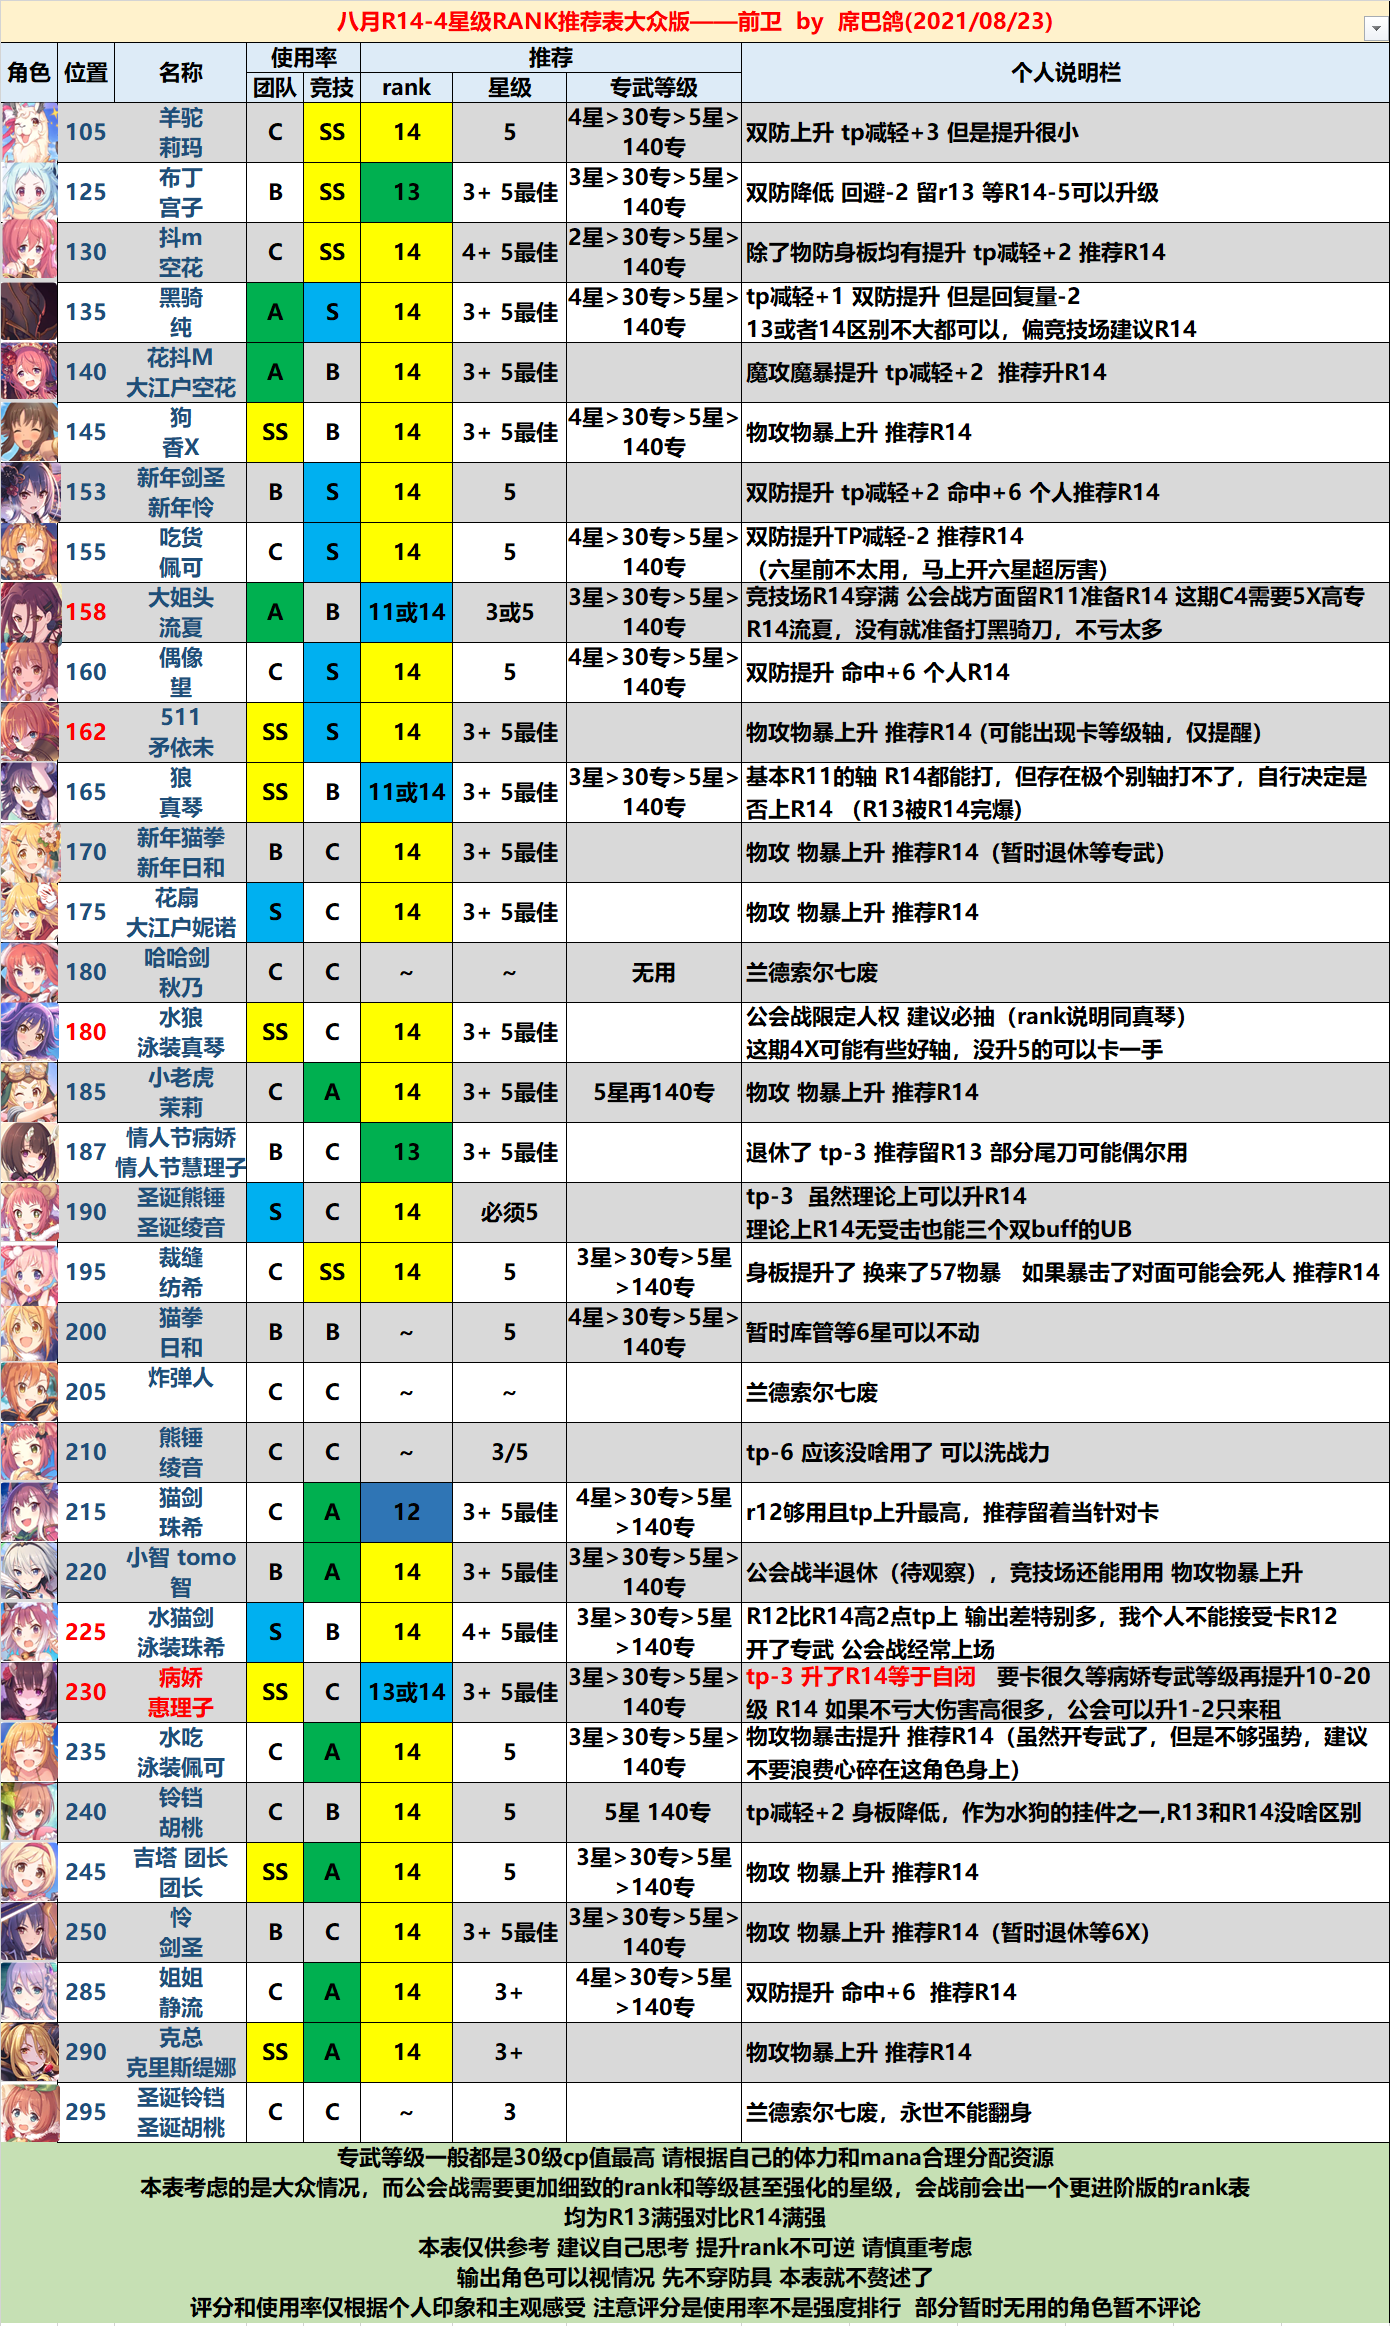
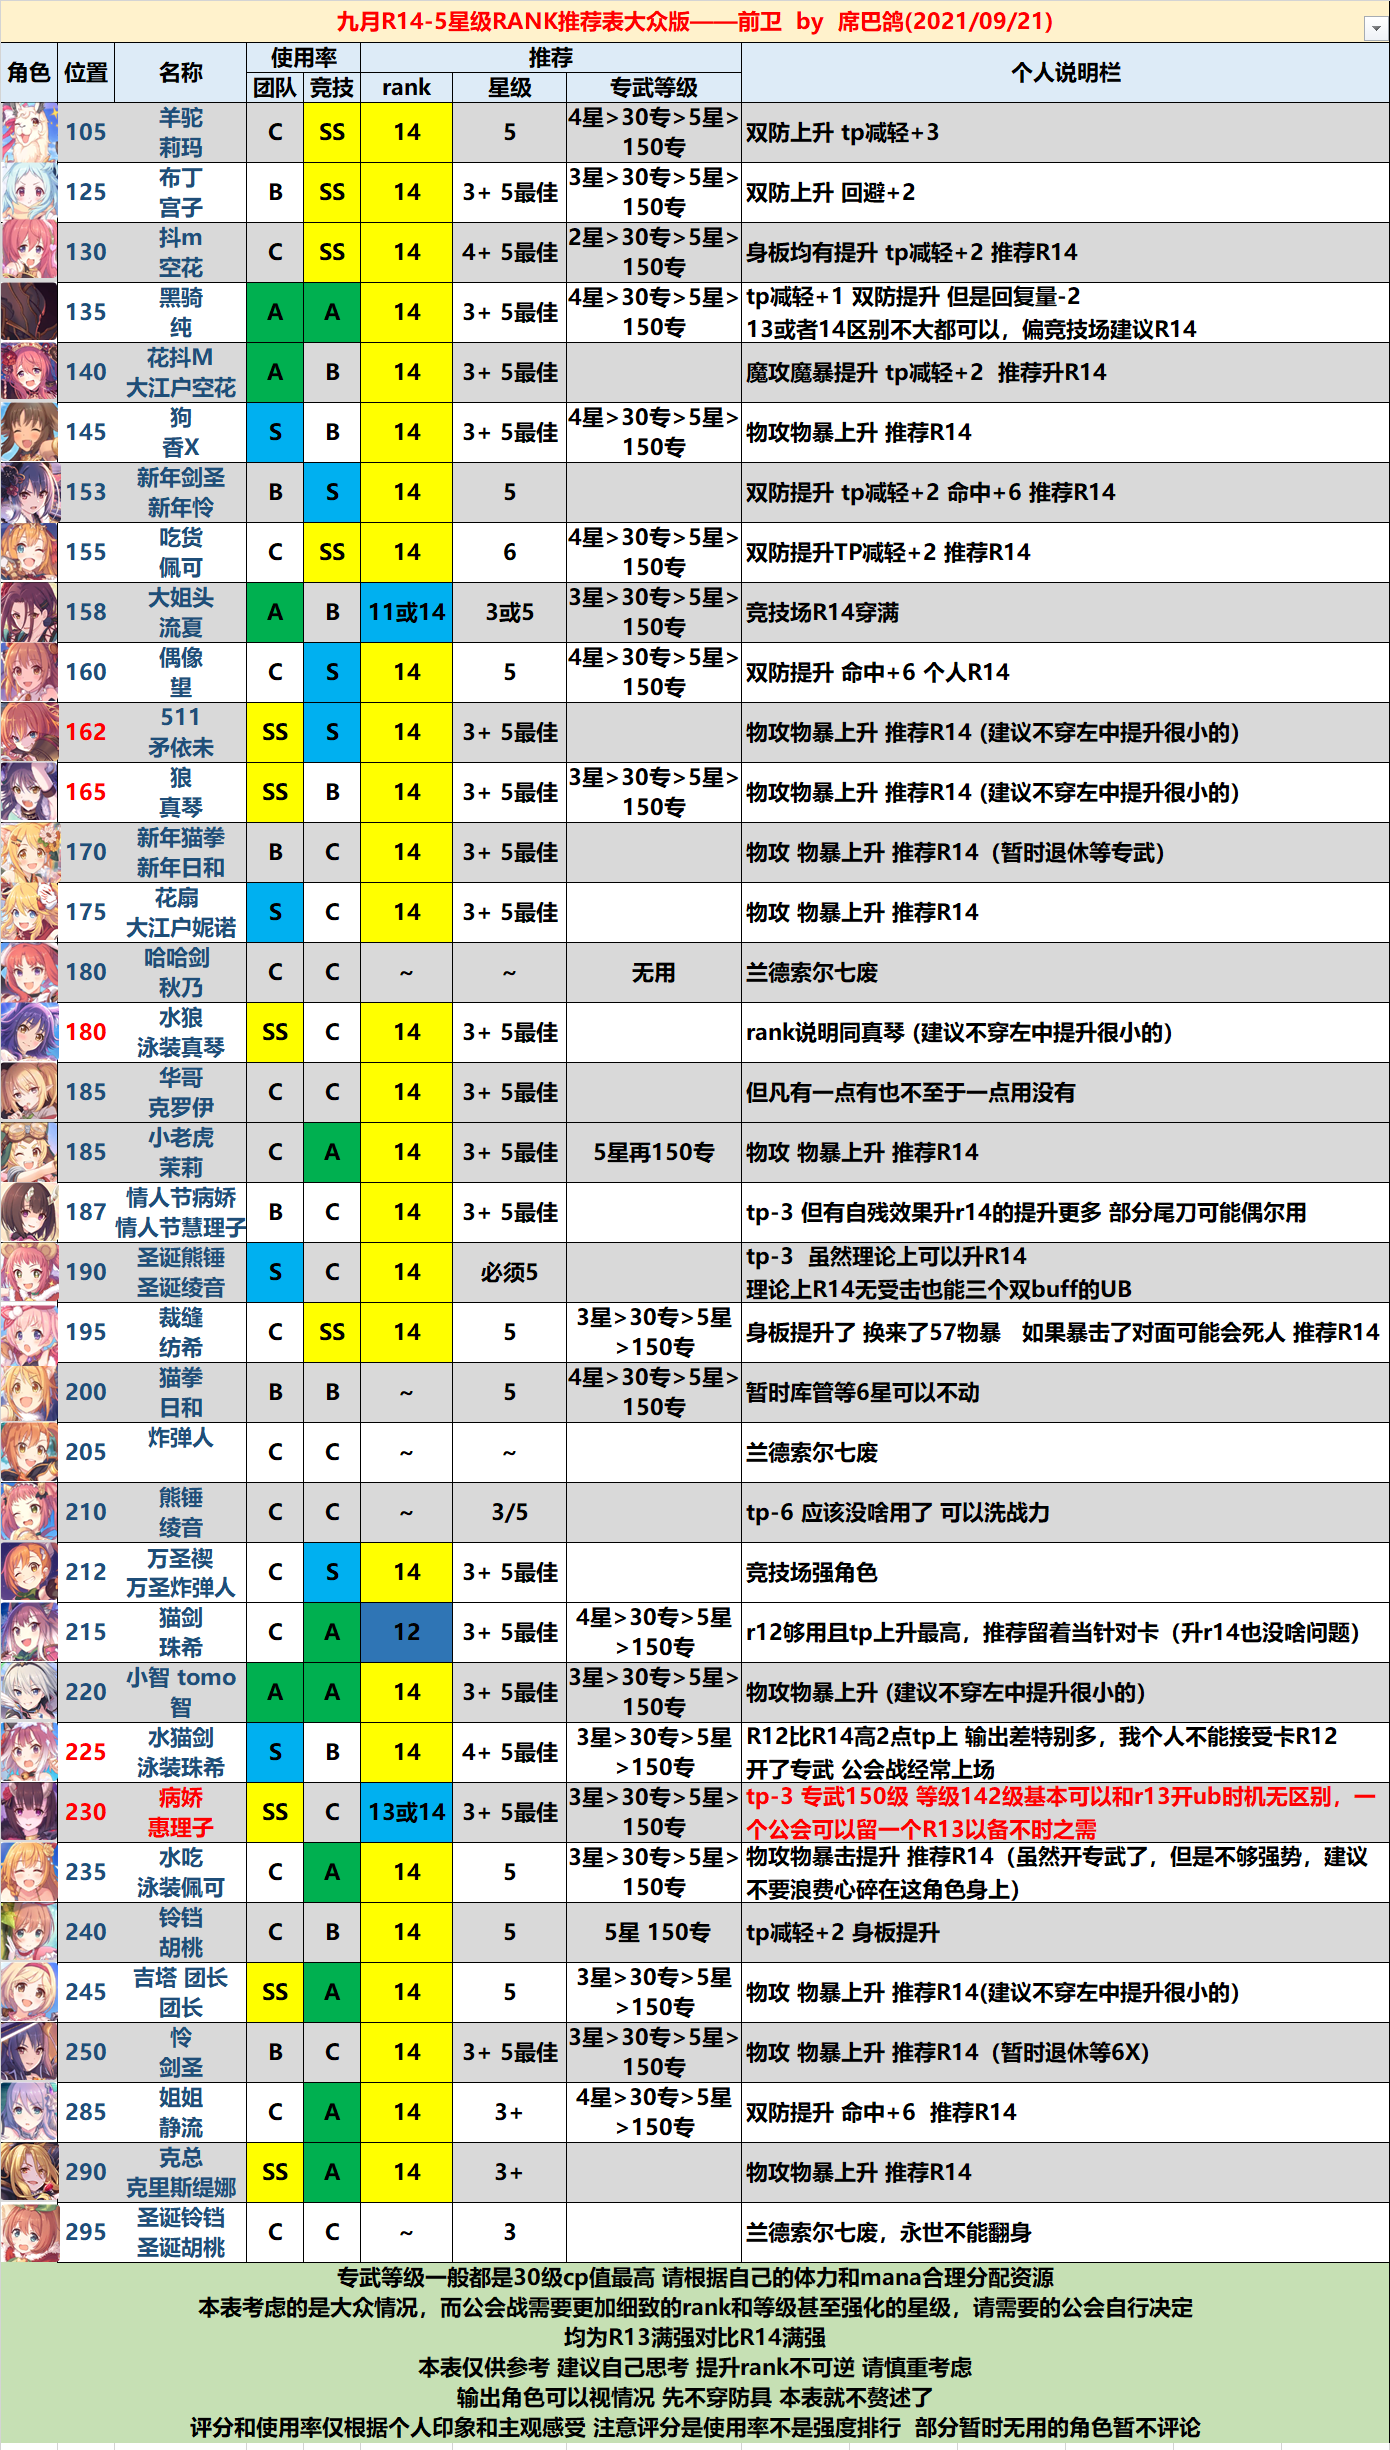
fix bug & update data
- 修复一个会导致会战插件崩溃的问题
- 更新 rank 表及官方动态数据

diff --git a/plugins/battle/create.js b/plugins/battle/create.js
@@ -1,5 +1,5 @@
 const querystring = require('querystring');
-const battle_url = `http://localhost/api/battle`;
+const { battle_url } = require('./index')
 const { httpRequest } = require('../../dist/util');
 
 // 创建账号信息
